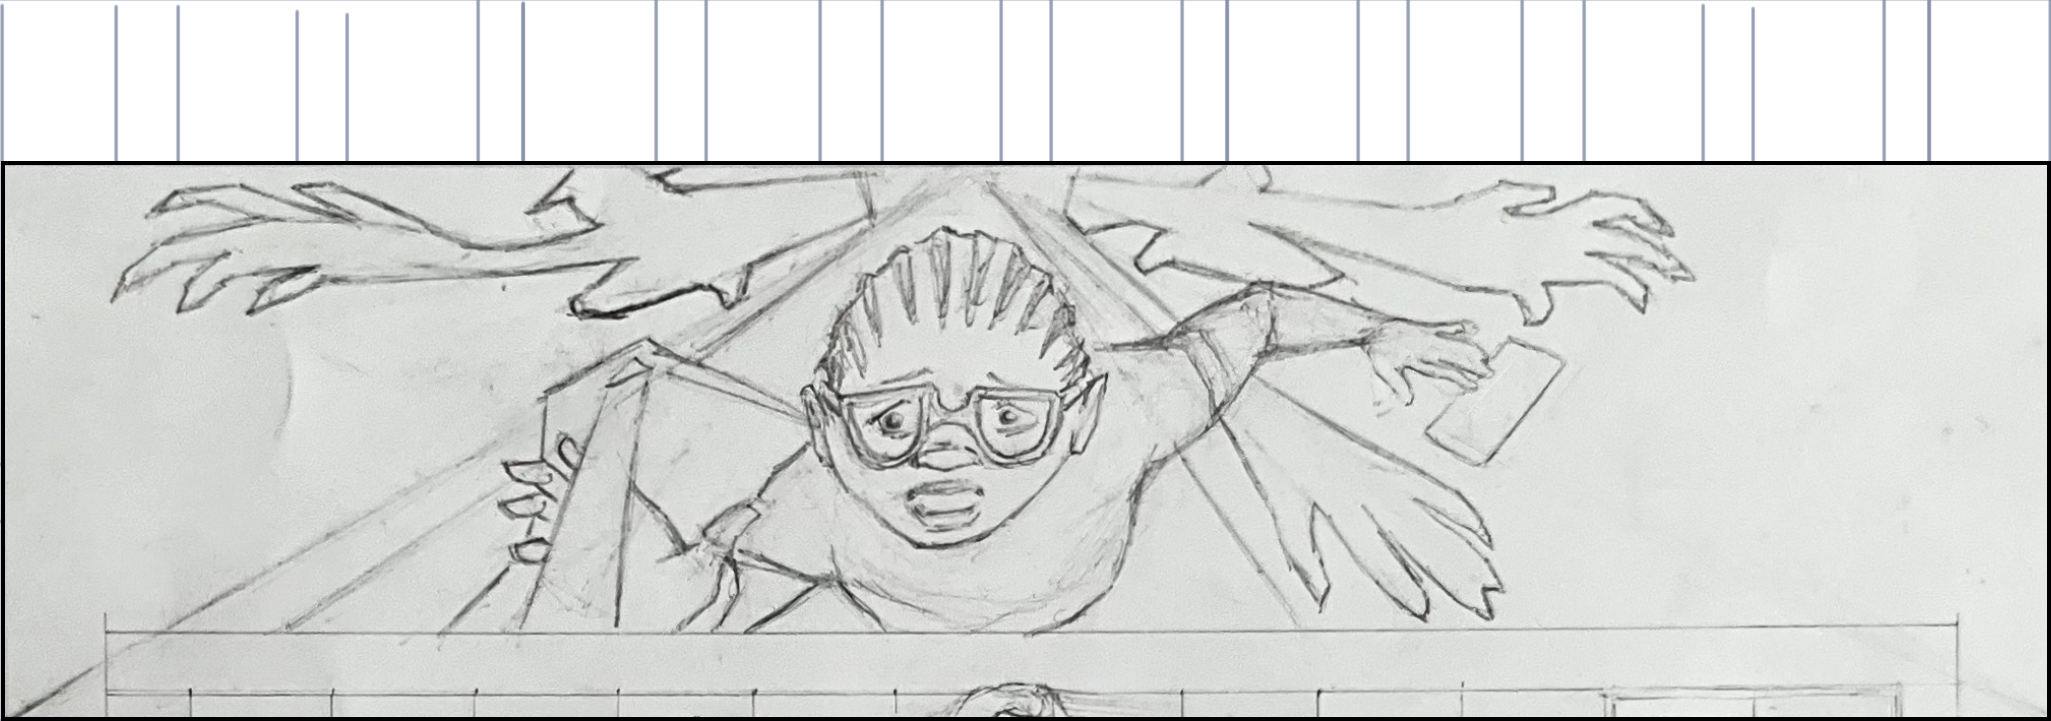
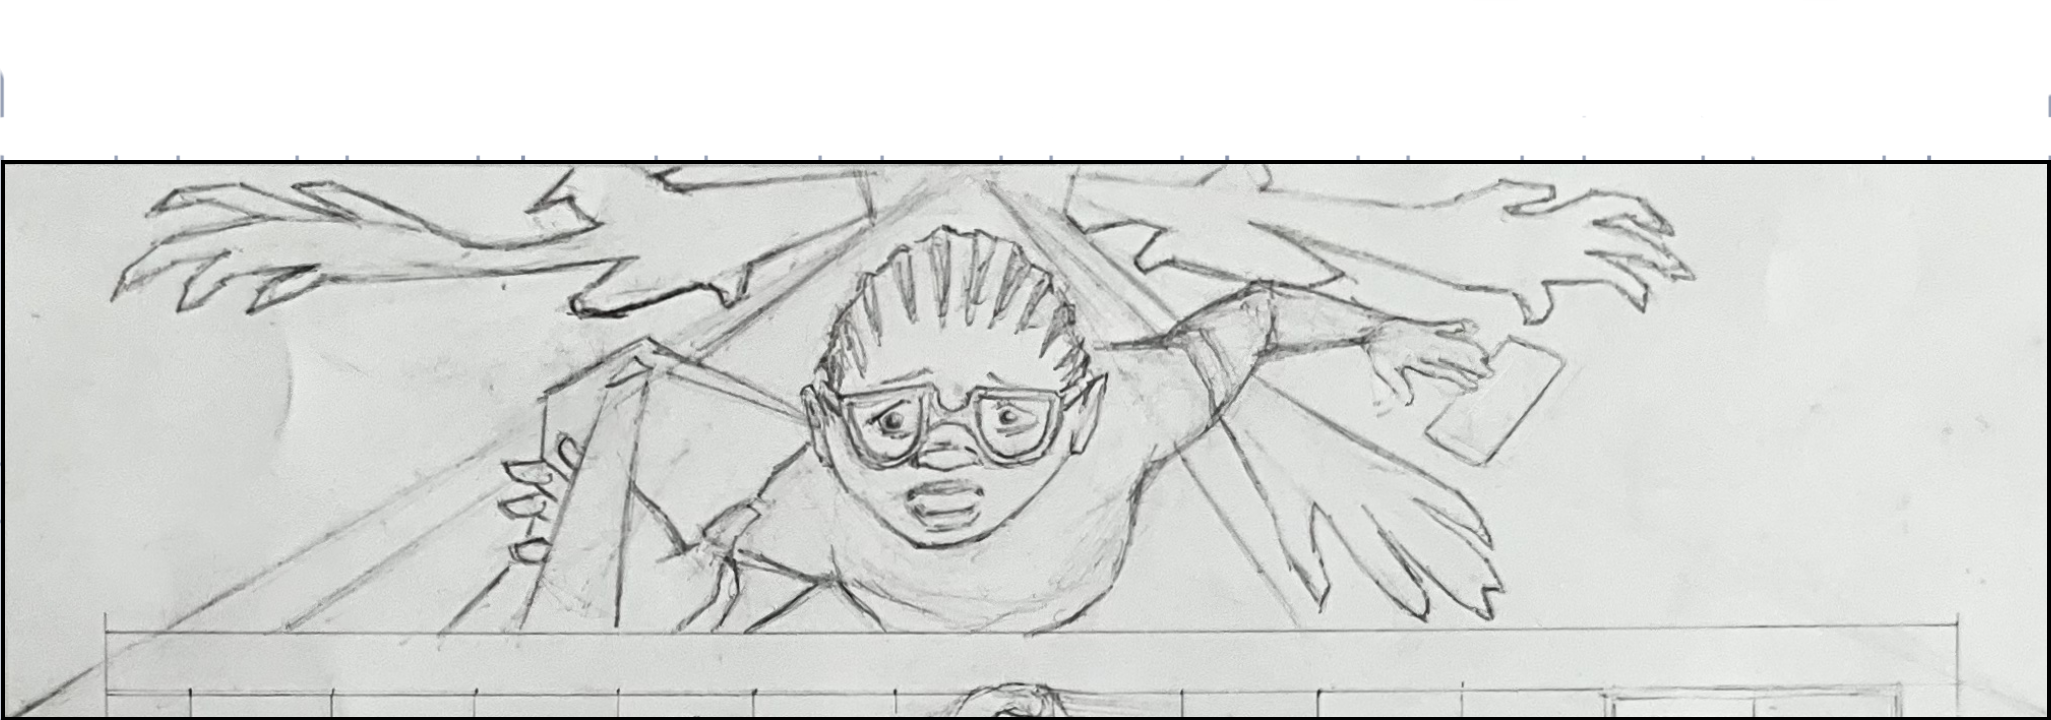
Redesign PanelViewer

diff --git a/src/Components/Pages/PanelSlider/PanelSlider.css b/src/Components/Pages/PanelSlider/PanelSlider.css
@@ -8,21 +8,58 @@
   align-items: center;
 }
 
-.cancel-button {
-  position: absolute;
-  top: 0;
-  right: 0;
+.panel-nav-buttons {
+  height: 60px;
+  display: flex;
+  justify-content: center;
+  align-items: center;
 }
 
 .panel-modal .invisibutton {
-  color: white;
+  color: var(--white-blue);
+  padding: 0 20px;
+  background-color: var(--main-blue);
+  height: 60px;
+  transition: 300ms;
+  border-radius: 30px;
+}
+
+.cancel-button {
+  width: 40px;
+  height: 40px !important;
+  border-radius: 20px;
+}
+
+/* .cancel-button > svg {
+  height: 40px;
+  width: 40px;
+} */
+
+.panel-modal .invisibutton:hover {
+  background-color: var(--med-blue);
+}
+
+.panel-nav-buttons .invisibutton:first-of-type {
+  border-radius: 30px 0 0 30px;
+}
+
+.panel-nav-buttons .invisibutton:last-of-type {
+  border-radius: 0 30px 30px 0;
 }
 
 .panel-window {
   align-items: center;
-  max-height: 100%;
+  flex-grow: 1;
+  /* padding: 10px; */
+  object-fit: contain;
+  overflow-y: hidden;
+  margin: 10px 0;
+  /* max-height: 100%; */
+  width: 100fr;
   max-width: calc(100vw - 80px);
-  overflow-x: scroll;
+  overflow-x: hidden;
+  background-color: var(--white-blue);
+  /* box-shadow: var(--dark-shadow-inset); */
 }
 
 .panel-window::-webkit-scrollbar {
@@ -35,8 +72,12 @@
 }
 
 .panel-img {
-  max-height: calc(100vh - 20px);
+  width: 100%;
+  height: 100%;
+  /* height: calc(100vh - 80px); */
+  /* max-height: calc(100vh - 20px); */
   box-sizing: border-box;
+  object-fit: contain;
 }
 
 .panel-img.landscape {
@@ -57,10 +98,18 @@
   left: 0;
   right: 0;
   margin: auto;
-  background-color: transparent;
+  background-color: var(--white-blue);
   border: none;
-  max-height: 100%;
+  height: calc(100vh - 40px);
+  padding: 20px;
+  width: 90vw;
   min-width: 1200px;
+  /* border: 2px solid var(--main-blue); */
+  box-shadow: var(--dark-shadow);
+}
+
+.panel-modal > .col-between {
+  height: 100%;
 }
 
 ::backdrop {

diff --git a/src/Components/Pages/PanelSlider/PanelSlider.jsx b/src/Components/Pages/PanelSlider/PanelSlider.jsx
@@ -65,10 +65,15 @@ export default function PanelSlider({
 
   return (
     <dialog className="panel-modal" ref={sliderRef} onClick={clickAway}>
-      <div className="row-between">
-        <button className="invisibutton prev-panel" onClick={decrementCurrent}>
-          <Prev />
-        </button>
+      <div className="col-between">
+        <div className="row-end">
+          <button
+            className="invisibutton cancel-button centered-container"
+            onClick={closeSlider}
+          >
+            <Cancel />
+          </button>
+        </div>
         <div
           className="panel-window"
           ref={windowRef}
@@ -84,12 +89,22 @@ export default function PanelSlider({
             alt=""
           />
         </div>
-        <button className="invisibutton next-panel" onClick={incrementCurrent}>
-          <Next />
-        </button>
-        <button className="invisibutton cancel-button" onClick={closeSlider}>
-          <Cancel />
-        </button>
+        <div className="row-center">
+          <div className="panel-nav-buttons">
+            <button
+              className="invisibutton prev-panel"
+              onClick={decrementCurrent}
+            >
+              <Prev />
+            </button>
+            <button
+              className="invisibutton next-panel"
+              onClick={incrementCurrent}
+            >
+              <Next />
+            </button>
+          </div>
+        </div>
       </div>
     </dialog>
   );

diff --git a/src/Components/Pages/PageNavigation/PageNavigation.jsx b/src/Components/Pages/PageNavigation/PageNavigation.jsx
@@ -1,11 +1,11 @@
-import { scottPilgrim } from "../../../Data/testPages";
+import { pencils } from "../../../Data/pencils";
 import { useOffset, useSetOffset } from "../../Context/OffsetContext";
 import "./PageNavigation.css";
 
 export default function PageNavigation() {
   const offset = useOffset();
   const setOffset = useSetOffset();
-  const { pages } = scottPilgrim;
+  const { pages } = pencils;
 
   function goPageOne() {
     setOffset(0);

diff --git a/src/Components/Variables.css b/src/Components/Variables.css
@@ -16,6 +16,7 @@
 
   --dark-shadow: 0 0 6px var(--black-blue);
   --dark-shadow-left: -4px 0px 4px var(--black-blue);
+  --dark-shadow-inset: inset 0 0 6px var(--black-blue);
 
   --white-border: 2px solid var(--white-blue);
   --black-border: 2px solid var(--black-blue);
